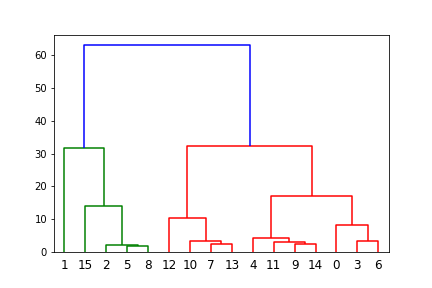
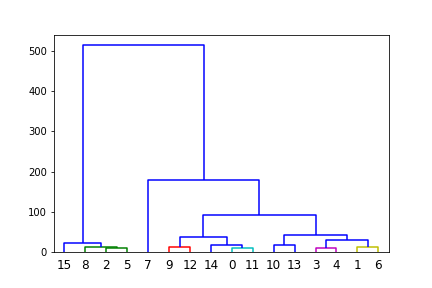
Update code

diff --git a/src/features/build_features_moriarty_gyroscope.py b/src/features/build_features_moriarty_gyroscope.py
@@ -1,0 +1,87 @@
+import pandas as pd
+from numpy import transpose
+from sklearn import preprocessing 
+from scipy import cluster
+import sklearn.neighbors
+import matplotlib.pyplot as plt
+from pylab import savefig
+
+
+df = pd.read_csv("../data/interim/T2_Labels.csv")
+
+# Get only objective data
+df = df[[col for col in df.columns if ("Gyroscope" in col and "FFT" not in col) or "labels" == col]]
+
+# We proceed use hierarchical clustering.
+scaler = preprocessing.MinMaxScaler()
+datanorm = scaler.fit_transform(df)
+dist = sklearn.neighbors.DistanceMetric.get_metric('euclidean')
+matsim = dist.pairwise(transpose(datanorm))
+clusters = cluster.hierarchy.linkage(matsim, method = 'complete')
+cluster.hierarchy.dendrogram(clusters, color_threshold=15)
+savefig("../../reports/figures/Milestone3/Dendrogram_gyroscope")
+plt.show()
+
+# By looking at the dendrogram, we drop the most similar features
+df = df.drop(df.columns[12], axis = 1)
+df = df.drop(df.columns[11], axis = 1)
+df = df.drop(df.columns[10], axis = 1)
+df = df.drop(df.columns[6], axis = 1)
+df = df.drop(df.columns[2], axis = 1)
+
+#---------------------------------------------------------------
+# And repeeat the process
+scaler = preprocessing.MinMaxScaler()
+datanorm = scaler.fit_transform(df)
+dist = sklearn.neighbors.DistanceMetric.get_metric('euclidean')
+matsim = dist.pairwise(transpose(datanorm))
+clusters = cluster.hierarchy.linkage(matsim, method = 'complete')
+cluster.hierarchy.dendrogram(clusters, color_threshold=20)
+plt.show()
+
+
+df = df.drop(df.columns[7], axis = 1)
+df = df.drop(df.columns[6], axis = 1)
+
+
+df.to_csv("../data/processed/T2_Labels_Gyroscope.csv", index=False)
+
+
+
+# ----------------------------------------------------------------
+# Apply the same process to the samples
+
+df = pd.read_csv("../data/processed/T2_sample_per1.csv")
+
+# Get only objective data
+df = df[[col for col in df.columns if ("Gyroscope" in col and "FFT" not in col) or "labels" == col]]
+
+df = df.drop(df.columns[12], axis = 1)
+df = df.drop(df.columns[11], axis = 1)
+df = df.drop(df.columns[10], axis = 1)
+df = df.drop(df.columns[6], axis = 1)
+df = df.drop(df.columns[2], axis = 1)
+
+df = df.drop(df.columns[7], axis = 1)
+df = df.drop(df.columns[6], axis = 1)
+
+df.to_csv("../data/processed/T2_sample_per1_gyroscope.csv", index=False)
+
+
+#------------------------------------------------------------------
+
+
+df = pd.read_csv("../data/processed/T2_sample_per1_inliers.csv")
+
+df = df[[col for col in df.columns if ("Gyroscope" in col and "FFT" not in col) or "labels" == col]]
+
+df = df.drop(df.columns[12], axis = 1)
+df = df.drop(df.columns[11], axis = 1)
+df = df.drop(df.columns[10], axis = 1)
+df = df.drop(df.columns[6], axis = 1)
+df = df.drop(df.columns[2], axis = 1)
+
+df = df.drop(df.columns[7], axis = 1)
+df = df.drop(df.columns[6], axis = 1)
+
+df.to_csv("../data/processed/T2_sample_per1_inliers_gyroscope.csv", index=False)

diff --git a/src/models/predict_gyroscope.py b/src/models/predict_gyroscope.py
@@ -1,40 +1,16 @@
 import pandas as pd
 import numpy as np
-from numpy import corrcoef, transpose, arange
 
 from sklearn.naive_bayes import GaussianNB
 from sklearn.metrics import classification_report
 from sklearn.ensemble import RandomForestClassifier
-from sklearn import preprocessing 
-import sklearn.neighbors
-
-from scipy.cluster import hierarchy
-from scipy import cluster
 
 import warnings
-import matplotlib.pyplot as plt
 
 # Taking important features
 
-df = pd.read_csv("../data/processed/T2_sample_per1.csv")
+df = pd.read_csv("../data/processed/T2_sample_per1_gyroscope.csv")
 
-
-df = df[[col for col in df.columns if ("Gyroscope" in col and "FFT" not in col) or "labels" == col]]
-
-scaler = preprocessing.MinMaxScaler()
-datanorm = scaler.fit_transform(df)
-
-dist = sklearn.neighbors.DistanceMetric.get_metric('euclidean')
-matsim = dist.pairwise(transpose(datanorm))
-clusters = cluster.hierarchy.linkage(matsim, method = 'complete')
-cluster.hierarchy.dendrogram(clusters, color_threshold=50)
-plt.savefig("../../reports/figures/Milestone3/Dendrogram_Gyroscope")
-plt.show()
-
-# Variances for each axis are very correlated thus we drop them
-df = df.drop("GyroscopeStat_x_VAR", axis=1)
-df = df.drop("GyroscopeStat_y_VAR", axis=1)
-df = df.drop("GyroscopeStat_z_VAR", axis=1)
 
 # Split into test and train datasets
 
@@ -74,7 +50,7 @@ print(matrix)
 #-------------------------------------------------------------
 # Taking important features
 
-df = pd.read_csv("../data/processed/T2_sample_per1_inliers.csv")
+df = pd.read_csv("../data/processed/T2_sample_per1_inliers_gyroscope.csv")
 
 df = df[[col for col in df.columns if ("Gyroscope" in col and "FFT" not in col) or "labels" == col]]
 
@@ -91,7 +67,7 @@ train = train.drop('labels', axis = 1)
 test = test.drop('labels', axis = 1)
 
 #Create a Random Forest model
-model = RandomForestClassifier(n_estimators=1000, random_state=7)
+model = RandomForestClassifier(n_estimators=2000, random_state=150)
 
 # Train the model using the training sets 
 with warnings.catch_warnings():
